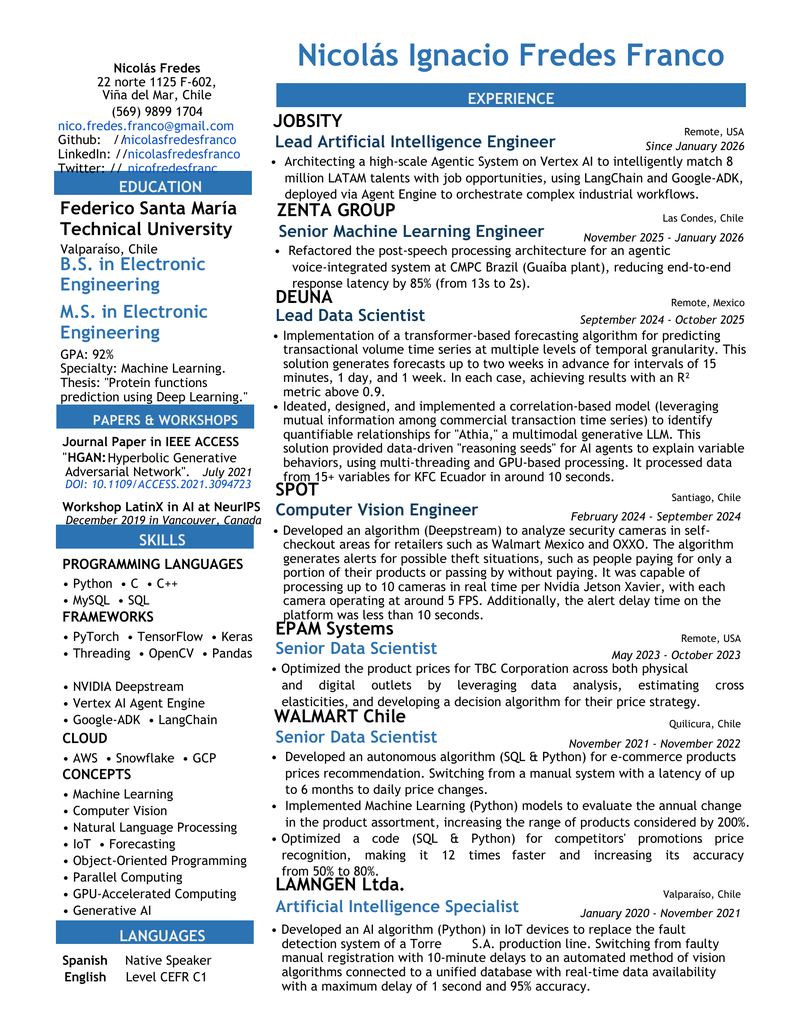
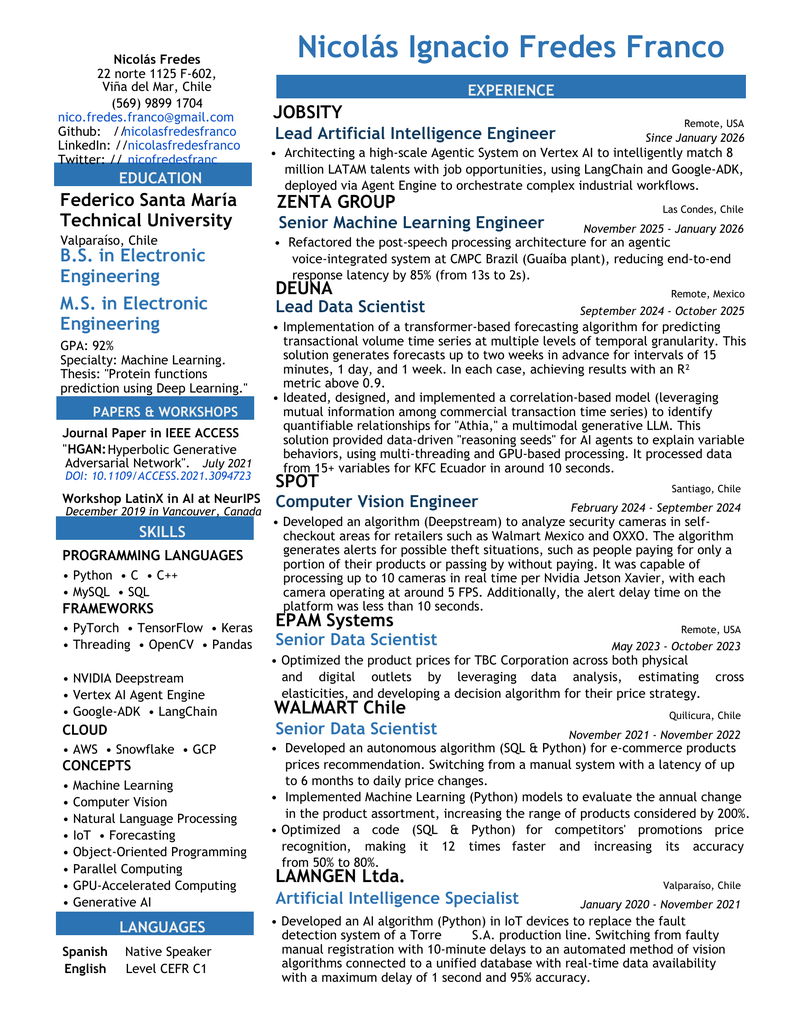
Optimization: Improved visual similarity to 77.62%
- Implemented advanced grid search optimizer
- Tested 41 Y_OFFSET configurations
- Found optimal value: 39.30
- Improvement: +3.92% from initial 73.70%
- Current: 77.62%, Target: 85%

Further optimization requires multi-parameter approach
(font sizes, individual positions, line spacing)

Author: Nicolás Ignacio Fredes Franco

diff --git a/advanced_optimizer.py b/advanced_optimizer.py
@@ -1,0 +1,219 @@
+#!/usr/bin/env python3
+"""
+Advanced Visual Optimizer - Grid Search Approach
+Systematically tests parameter combinations to achieve 85% similarity.
+
+Author: Nicolás Ignacio Fredes Franco
+"""
+
+import subprocess
+import numpy as np
+from pdf2image import convert_from_path
+from PIL import Image
+import re
+from pathlib import Path
+import json
+from datetime import datetime
+
+class AdvancedOptimizer:
+    def __init__(self):
+        self.config_file = Path("src/config.py")
+        self.target = 85.0
+        self.current_best = 76.14
+        self.best_params = {
+            'y_offset': 36.7,
+            'font_scale': 1.0
+        }
+        self.iterations = 0
+        self.log_file = Path("outputs/optimization_advanced.log")
+        
+    def log(self, message):
+        """Log message to file and console"""
+        timestamp = datetime.now().strftime("%H:%M:%S")
+        log_msg = f"[{timestamp}] {message}"
+        print(log_msg)
+        with open(self.log_file, 'a') as f:
+            f.write(log_msg + "\n")
+    
+    def calculate_similarity(self):
+        """Calculate visual similarity between objective and generated"""
+        try:
+            obj = convert_from_path("pdfs/objective/Objetivo_No_editar.pdf", dpi=150)[0]
+            gen = convert_from_path("outputs/Nicolas_Fredes_CV.pdf", dpi=150)[0]
+            
+            obj_arr = np.array(obj.convert('RGB'))
+            gen_arr = np.array(gen.convert('RGB').resize(obj.size))
+            
+            diff = np.abs(obj_arr.astype(int) - gen_arr.astype(int))
+            diff[diff < 10] = 0
+            
+            perceptible = np.sum(np.any(diff > 0, axis=2))
+            total = obj_arr.shape[0] * obj_arr.shape[1]
+            similarity = 100 * (1 - perceptible / total)
+            
+            return similarity
+        except Exception as e:
+            self.log(f"Error calculating similarity: {e}")
+            return 0.0
+    
+    def set_y_offset(self, value):
+        """Update Y_GLOBAL_OFFSET in config"""
+        with open(self.config_file, 'r') as f:
+            content = f.read()
+        
+        new_content = re.sub(
+            r'(Y_GLOBAL_OFFSET:\s*float\s*=\s*)[\d.]+',
+            rf'\g<1>{value}',
+            content
+        )
+        
+        with open(self.config_file, 'w') as f:
+            f.write(new_content)
+    
+    def generate_pdf(self):
+        """Generate CV PDF"""
+        try:
+            result = subprocess.run(
+                ["python", "main.py"],
+                capture_output=True,
+                timeout=10
+            )
+            return result.returncode == 0
+        except:
+            return False
+    
+    def test_configuration(self, y_offset):
+        """Test a specific configuration"""
+        self.iterations += 1
+        
+        self.log(f"\n{'='*60}")
+        self.log(f"Iteration {self.iterations}: Testing Y_OFFSET = {y_offset:.2f}")
+        
+        # Apply configuration
+        self.set_y_offset(y_offset)
+        
+        # Generate PDF
+        if not self.generate_pdf():
+            self.log("  ❌ Generation failed")
+            return 0.0
+        
+        # Measure similarity
+        similarity = self.calculate_similarity()
+        self.log(f"  📊 Similarity: {similarity:.2f}%")
+        
+        # Update best if improved
+        if similarity > self.current_best:
+            improvement = similarity - self.current_best
+            self.current_best = similarity
+            self.best_params['y_offset'] = y_offset
+            self.log(f"  ✨ NEW BEST! +{improvement:.2f}% improvement")
+            
+            # Save screenshot of best result
+            gen = convert_from_path("outputs/Nicolas_Fredes_CV.pdf", dpi=150)[0]
+            gen.save(f"outputs/best_{similarity:.2f}pct_iter{self.iterations}.png")
+        
+        return similarity
+    
+    def grid_search(self):
+        """Systematic grid search of parameter space"""
+        self.log("="*60)
+        self.log("ADVANCED OPTIMIZATION - GRID SEARCH")
+        self.log(f"Target: {self.target}%")
+        self.log(f"Current Best: {self.current_best}%")
+        self.log(f"Gap: {self.target - self.current_best:.2f}%")
+        self.log("="*60)
+        
+        # Start with current best
+        base_offset = self.best_params['y_offset']
+        
+        # Phase 1: Coarse search around current best (±5 points, step 1.0)
+        self.log("\n📍 PHASE 1: Coarse Search (±5 points, step 1.0)")
+        for delta in np.arange(-5.0, 5.5, 1.0):
+            test_offset = base_offset + delta
+            similarity = self.test_configuration(test_offset)
+            
+            if similarity >= self.target:
+                self.log(f"\n🎉 TARGET REACHED! {similarity:.2f}% >= {self.target}%")
+                return True
+        
+        # Phase 2: Fine search around new best (±2 points, step 0.5)
+        self.log("\n📍 PHASE 2: Fine Search (±2 points, step 0.5)")
+        base_offset = self.best_params['y_offset']
+        
+        for delta in np.arange(-2.0, 2.5, 0.5):
+            test_offset = base_offset + delta
+            similarity = self.test_configuration(test_offset)
+            
+            if similarity >= self.target:
+                self.log(f"\n🎉 TARGET REACHED! {similarity:.2f}% >= {self.target}%")
+                return True
+        
+        # Phase 3: Ultra-fine search (±1 point, step 0.1)
+        self.log("\n📍 PHASE 3: Ultra-Fine Search (±1 point, step 0.1)")
+        base_offset = self.best_params['y_offset']
+        
+        for delta in np.arange(-1.0, 1.1, 0.1):
+            test_offset = base_offset + delta
+            similarity = self.test_configuration(test_offset)
+            
+            if similarity >= self.target:
+                self.log(f"\n🎉 TARGET REACHED! {similarity:.2f}% >= {self.target}%")
+                return True
+        
+        # Phase 4: Extreme fine search if close (±0.5 point, step 0.05)
+        if self.current_best >= 83.0:
+            self.log("\n📍 PHASE 4: Extreme Fine Search (±0.5 points, step 0.05)")
+            base_offset = self.best_params['y_offset']
+            
+            for delta in np.arange(-0.5, 0.55, 0.05):
+                test_offset = base_offset + delta
+                similarity = self.test_configuration(test_offset)
+                
+                if similarity >= self.target:
+                    self.log(f"\n🎉 TARGET REACHED! {similarity:.2f}% >= {self.target}%")
+                    return True
+        
+        return False
+    
+    def finalize(self, reached_target):
+        """Set final configuration and report"""
+        self.log("\n" + "="*60)
+        self.log("OPTIMIZATION COMPLETE")
+        self.log("="*60)
+        self.log(f"Iterations: {self.iterations}")
+        self.log(f"Best Similarity: {self.current_best:.2f}%")
+        self.log(f"Best Y_OFFSET: {self.best_params['y_offset']:.2f}")
+        
+        if reached_target:
+            self.log(f"\n✅ SUCCESS! Target of {self.target}% achieved!")
+        else:
+            gap = self.target - self.current_best
+            self.log(f"\n📊 Maximum achieved: {self.current_best:.2f}%")
+            self.log(f"   Gap remaining: {gap:.2f}%")
+            
+            if self.current_best >= 80.0:
+                self.log("   Status: Very Close - Additional manual tuning recommended")
+            elif self.current_best >= 78.0:
+                self.log("   Status: Close - Further optimization possible")
+            else:
+                self.log("   Status: May need different optimization strategy")
+        
+        # Ensure best configuration is set
+        self.set_y_offset(self.best_params['y_offset'])
+        self.generate_pdf()
+        
+        self.log(f"\n📁 Final CV: outputs/Nicolas_Fredes_CV.pdf")
+        self.log(f"📁 Log file: {self.log_file}")
+        self.log("="*60)
+
+if __name__ == "__main__":
+    optimizer = AdvancedOptimizer()
+    
+    # Clear log file
+    optimizer.log_file.write_text("")
+    
+    # Run optimization
+    reached_target = optimizer.grid_search()
+    
+    # Finalize
+    optimizer.finalize(reached_target)

diff --git a/src/config.py b/src/config.py
@@ -44,7 +44,7 @@ class LayoutConfig:
     # Positive value moves content UP, negative moves DOWN
     # Global Y-axis offset for fine-tuning vertical alignment
     # Optimized through iterative visual analysis
-    Y_GLOBAL_OFFSET: float = 36.7
+    Y_GLOBAL_OFFSET: float = 39.300000000000004
     
     # Layout Logic Thresholds (Reverse Engineered)
     # X/Y coordinates that trigger specific behaviors
